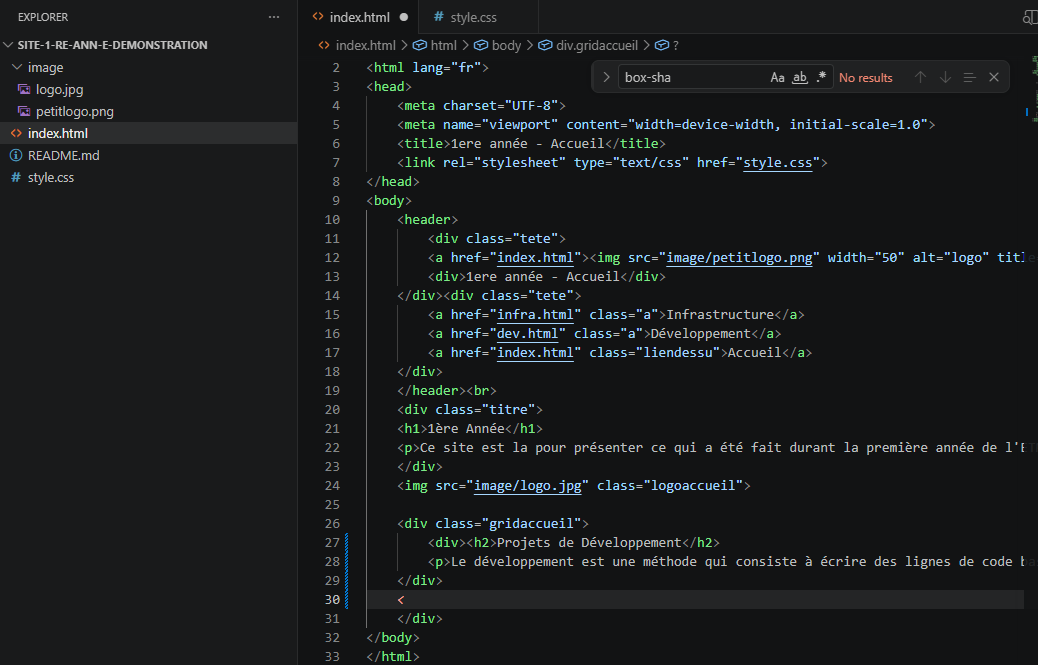
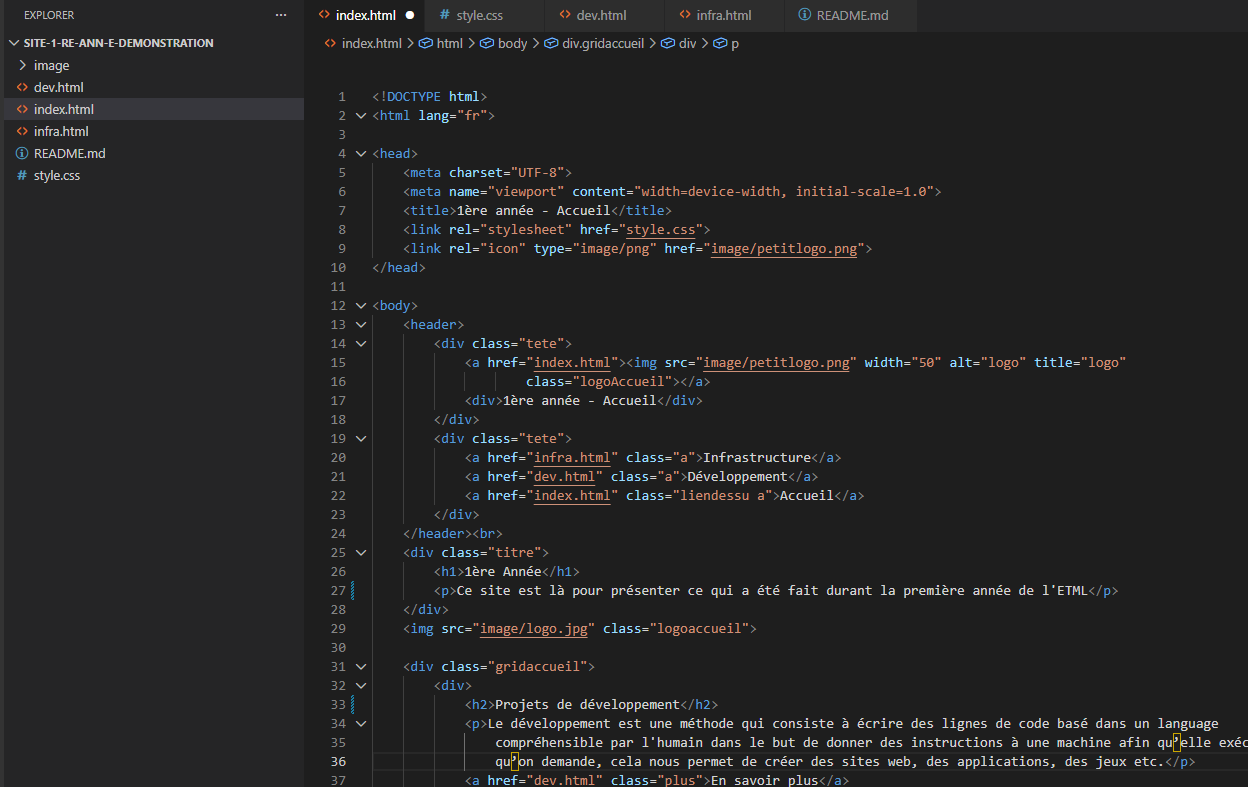
changement Noé

diff --git a/index.html b/index.html
@@ -24,13 +24,13 @@
     </header><br>
     <div class="titre">
         <h1>1ère Année</h1>
-        <p>Ce site est la pour présenter ce qui a été fait durant la première année de l'ETML</p>
+        <p>Ce site est là pour présenter ce qui a été fait durant la première année de l'ETML</p>
     </div>
     <img src="image/logo.jpg" class="logoaccueil">
 
     <div class="gridaccueil">
         <div>
-            <h2>Projets de Développement</h2>
+            <h2>Projets de développement</h2>
             <p>Le développement est une méthode qui consiste à écrire des lignes de code basé dans un language
                 compréhensible par l'humain dans le but de donner des instructions à une machine afin qu’elle exécute ce
                 qu’on demande, cela nous permet de créer des sites web, des applications, des jeux etc.</p>
@@ -39,7 +39,7 @@
         <img src="image/imagecode.png" class="droite">
         <img src="image/cisco.png" class="gauche">
         <div>
-            <h2>Projets d'Infrastructure</h2>
+            <h2>Projets d'infrastructure</h2>
             <p>L'infrastructure informatique désigne l'ensemble des composants matériels, logiciels et
                 réseaux nécessaires au fonctionnement et à la gestion des environnements informatiques d’une
                 organisation. Elle constitue la base sur laquelle reposent les services numériques, les applications

diff --git a/test.html b/test.html
@@ -1,0 +1,12 @@
+<!DOCTYPE html>
+<html lang="en">
+<head>
+    <meta charset="UTF-8">
+    <meta name="viewport" content="width=device-width, initial-scale=1.0">
+    <title>Document</title>
+        <link rel="stylesheet" href="test.css">
+</head>
+<body>
+    
+</body>
+</html>

diff --git a/test.css b/test.css
@@ -1,0 +1,3 @@
+body{
+    font-size: 500px;
+}
